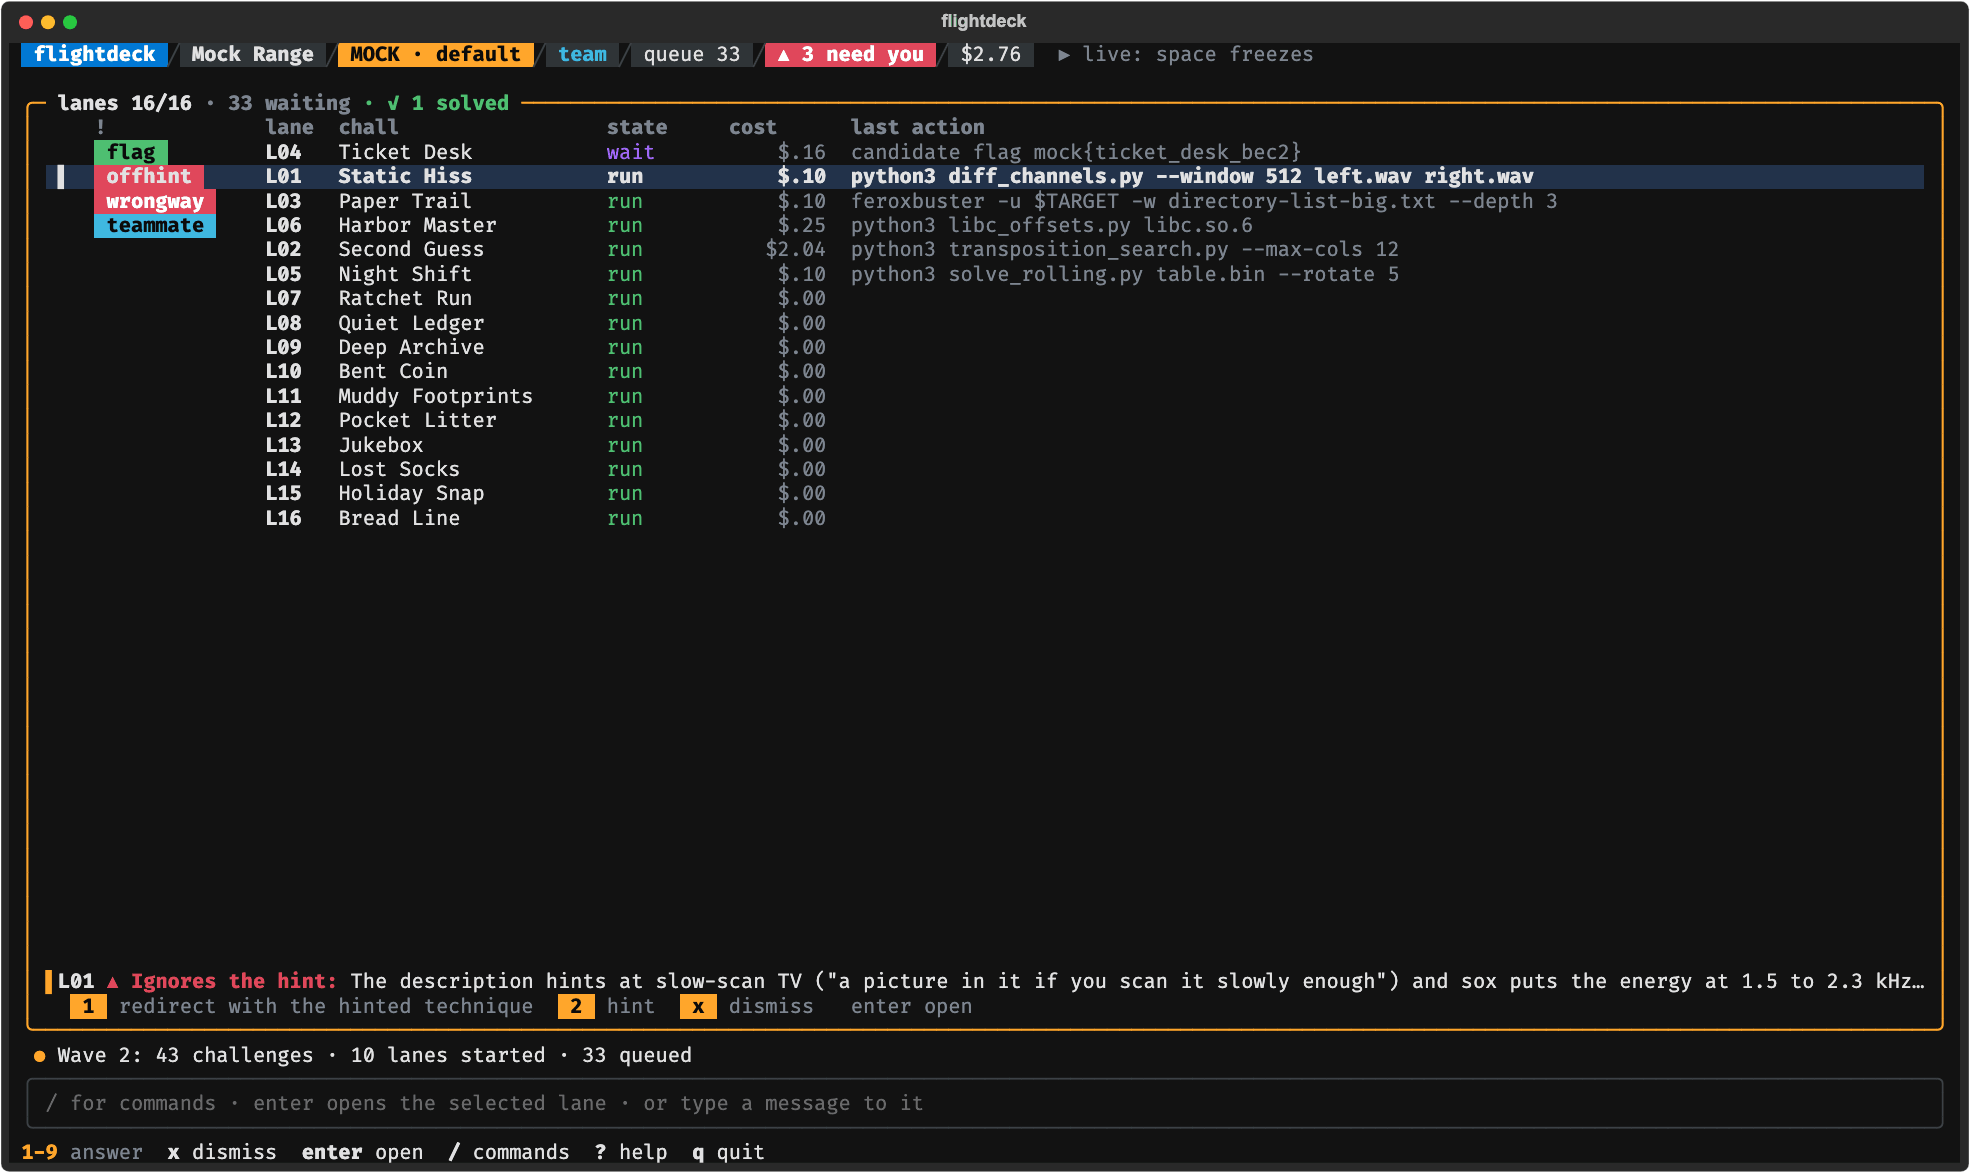
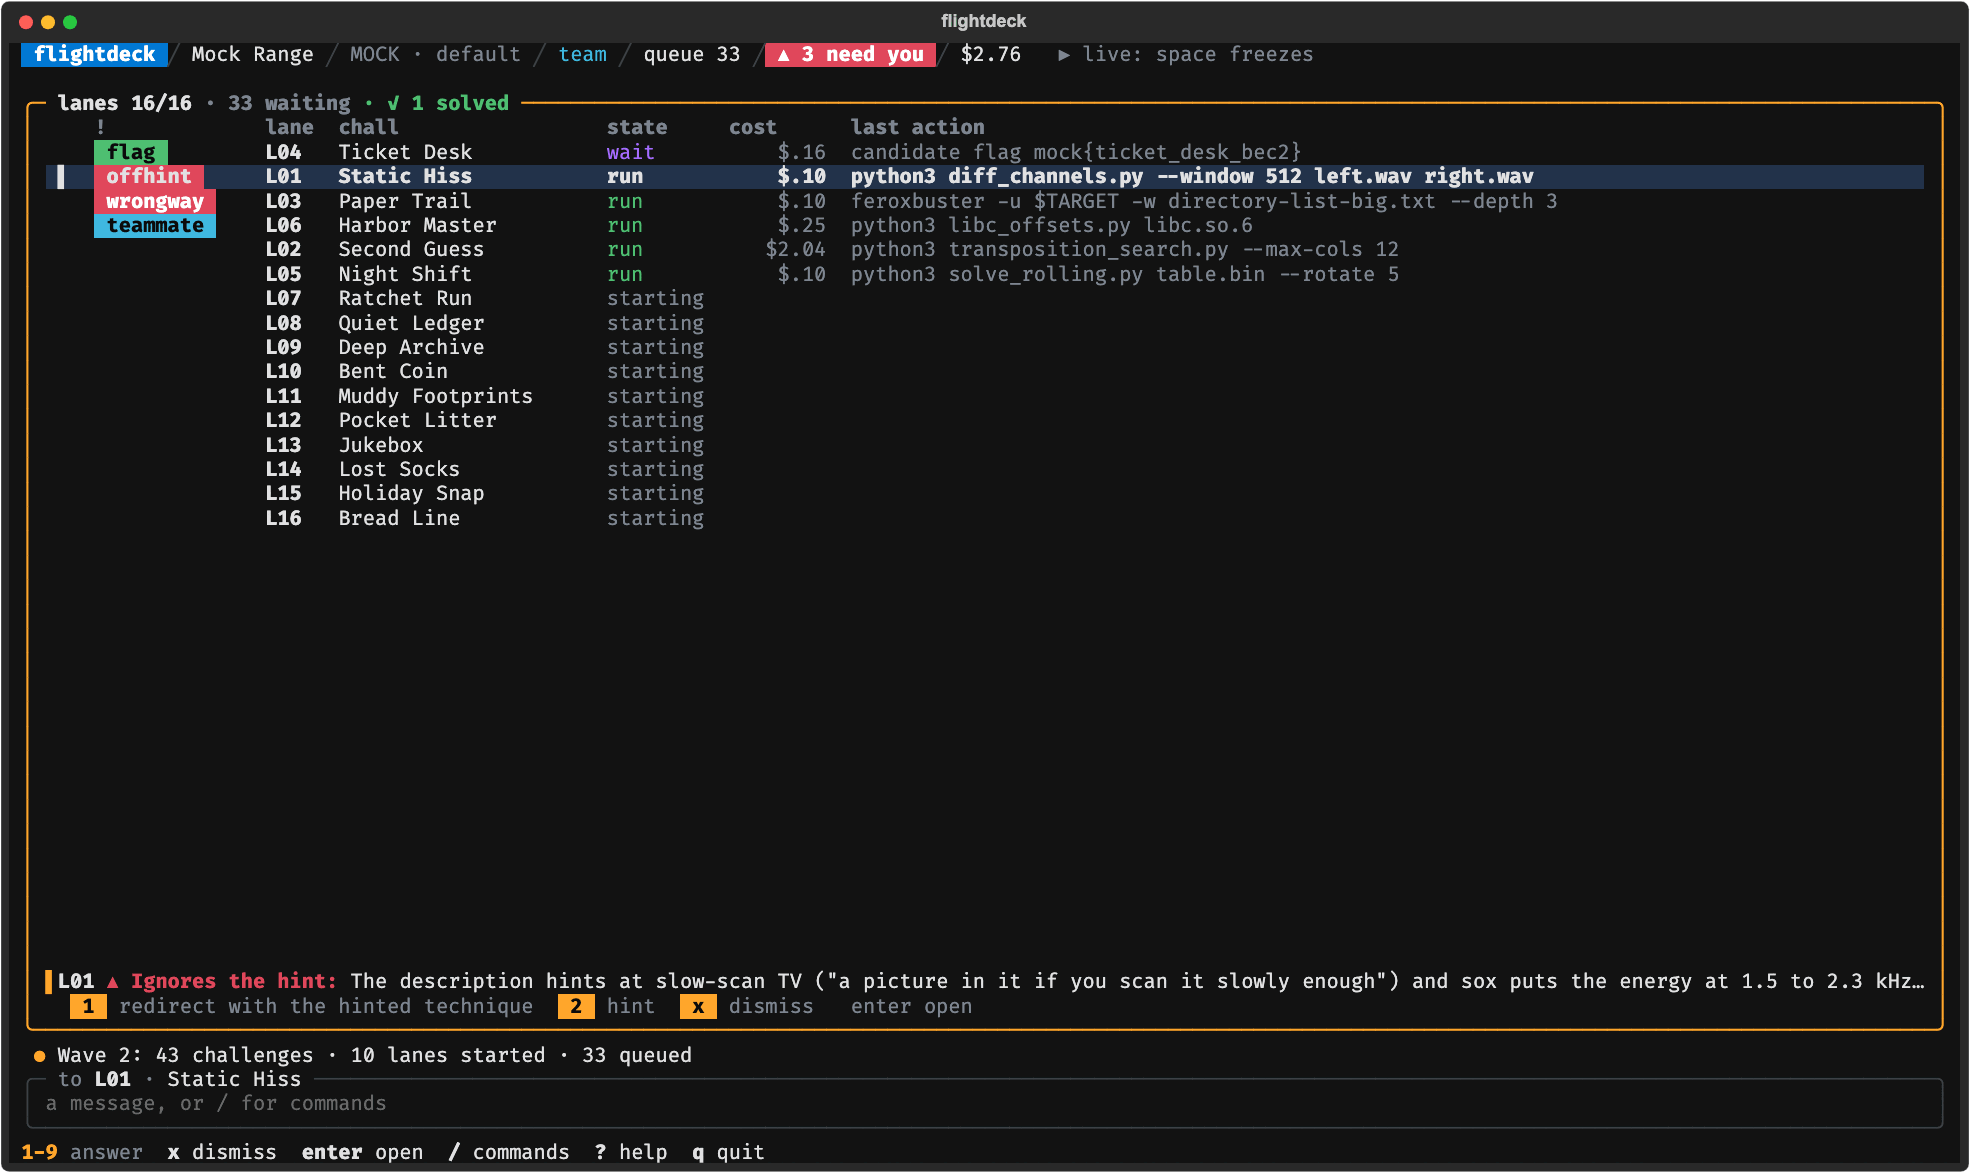
Screenshots: the simple layout again, with its quiet header and starting rows (#42)
simple, simple-alert and simple-lane from `flightdeck mock --screenshot` (the default
scenario), drawn from the SVG by a browser and saved with a 128-colour palette. The pictures
before this change are the previous commit's. The gallery's words say what is new, and the
lane picture's key line reads `? help` as it has since P65.

Claude-Session: https://claude.ai/code/session_01GzPi8FbmkTGAi5YtkeDgSR

diff --git a/docs/SCREENSHOTS.md b/docs/SCREENSHOTS.md
@@ -25,19 +25,21 @@ shell prompt and the command typed at it.
 
 ## The simple layout
 
-![The simple layout: a short header with the event, the team tag, three lanes that need you and the run's dollars; one list of six lanes with their alert chip, challenge, state, cost and last action; under the list, the found flag with 1 to submit it and 0 not to; a key line of approve, decline, open, commands, help and quit](screenshots/simple.png)
+![The simple layout: a short header with the event, the team tag, three lanes that need you and the run's dollars, where only flightdeck and the need-you count have a coloured block; one list of six lanes with their alert chip, challenge, state, cost and last action; under the list, the found flag with 1 to submit it and 0 not to; a key line of approve, decline, open, commands, help and quit](screenshots/simple.png)
 
 What the console opens in: one list of lanes, sorted by what needs you. The header says only what
-is not the usual, the line under the list says why the selected lane is flagged, and the key line
-has only the keys that apply to that lane now. Every other key still acts, and `?` lists them.
+is not the usual, and only what asks you to look has a coloured block in it; the line under the
+list says why the selected lane is flagged, and the key line has only the keys that apply to that
+lane now. Every other key still acts, and `?` lists them.
 
-![The simple layout during a wave: the header also says queue 33, the list's title says 16 of 16 lanes, 33 waiting and 1 solved, and the selected lane ignores its description's hint, with 1 to redirect it, 2 to send a hint and x to dismiss the alert](screenshots/simple-alert.png)
+![The simple layout during a wave: the header also says queue 33, the list's title says 16 of 16 lanes, 33 waiting and 1 solved, ten lanes that have not begun say starting and have no cost, and the selected lane ignores its description's hint, with 1 to redirect it, 2 to send a hint and x to dismiss the alert](screenshots/simple-alert.png)
 
 A wave has landed: the header has the queue because it is not empty, and the list's title counts
-the challenges that wait and the ones solved. The selected lane's alert has numbered answers, so
+the challenges that wait and the ones solved. The lanes the wave started say `starting`, with no
+cost, until they take their first step. The selected lane's alert has numbered answers, so
 the key line leads with `1-9 answer` and `x dismiss`.
 
-![A lane full screen in the simple layout: the strip of two other lanes that need you; the calm transcript, 6 tool calls and the last of them, the alert's name and turn, 12 tool calls and the last of them; the needs-you card in two rows, the alert with its reason and its two numbered answers; the files the lane changed with a diff; and a key line of answer, esc lanes, commands, /help and ctrl+o details](screenshots/simple-lane.png)
+![A lane full screen in the simple layout: the strip of two other lanes that need you; the calm transcript, 6 tool calls and the last of them, the alert's name and turn, 12 tool calls and the last of them; the needs-you card in two rows, the alert with its reason and its two numbered answers; the files the lane changed with a diff; and a key line of answer, esc lanes, commands, help and ctrl+o details](screenshots/simple-lane.png)
 
 `enter` opens a lane. In the simple layout the view shows a part only when it has something in
 it: the strip on top while another lane needs you, the card while this one does, the files pane
